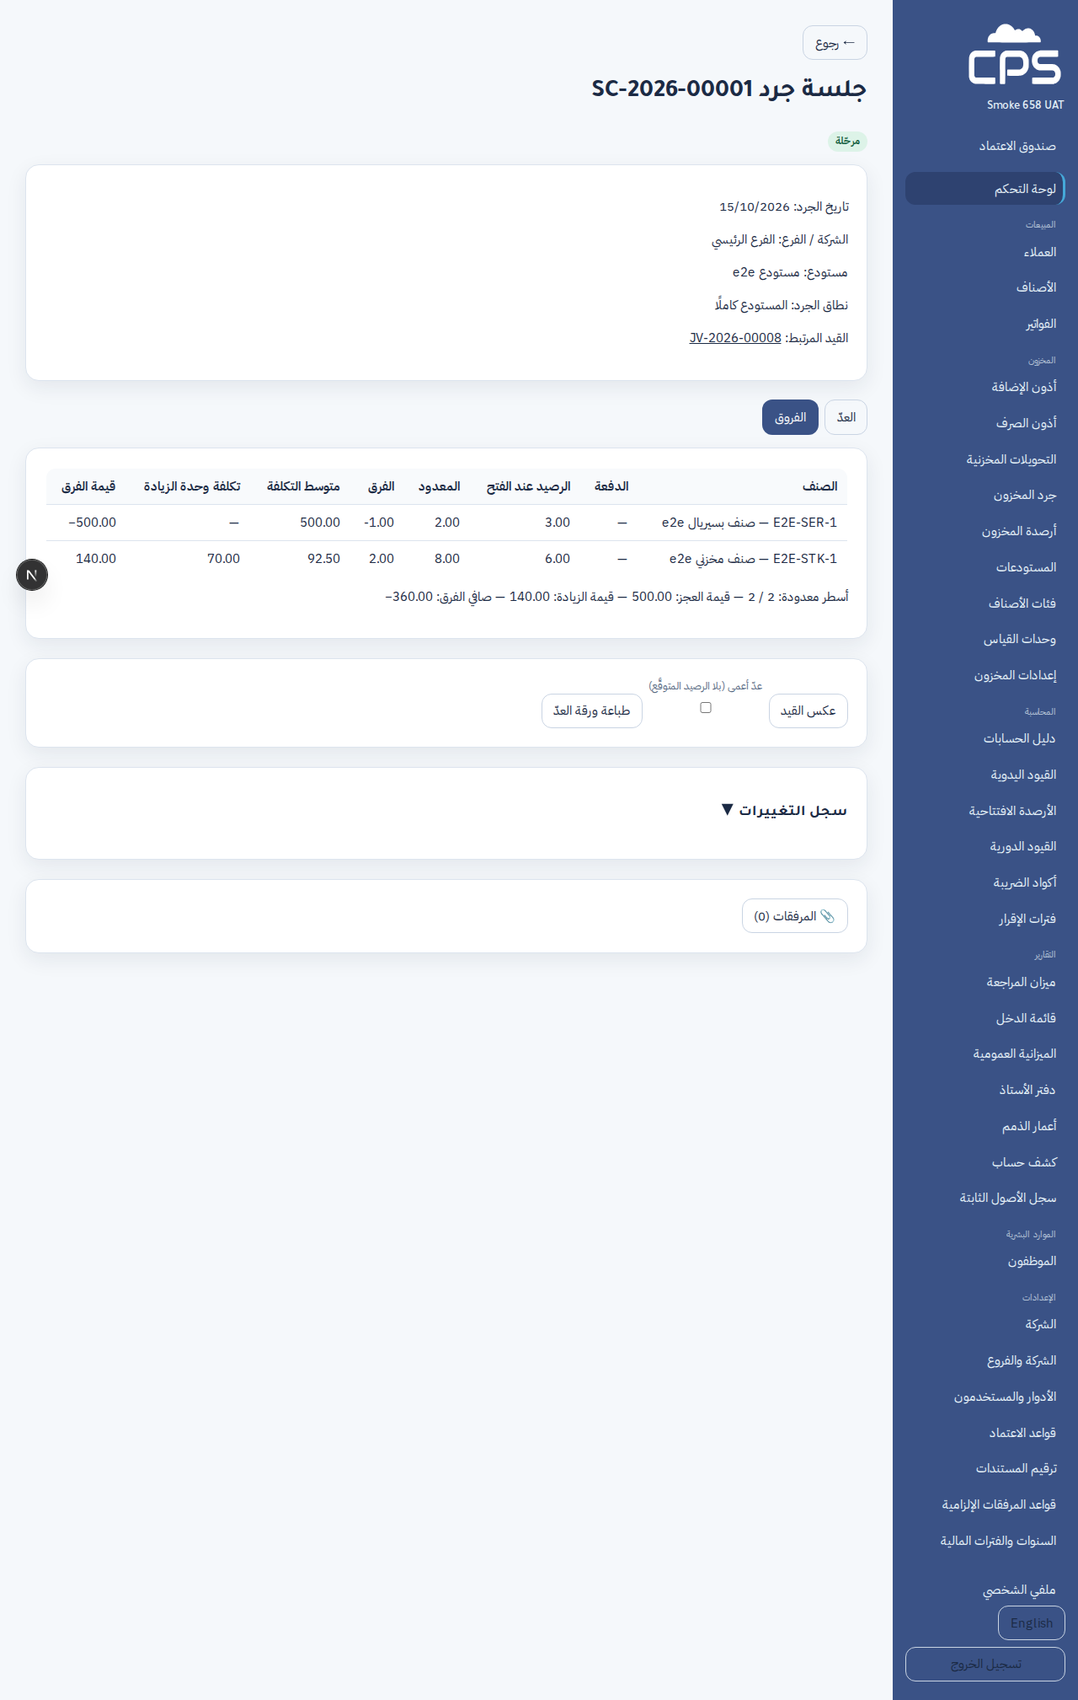
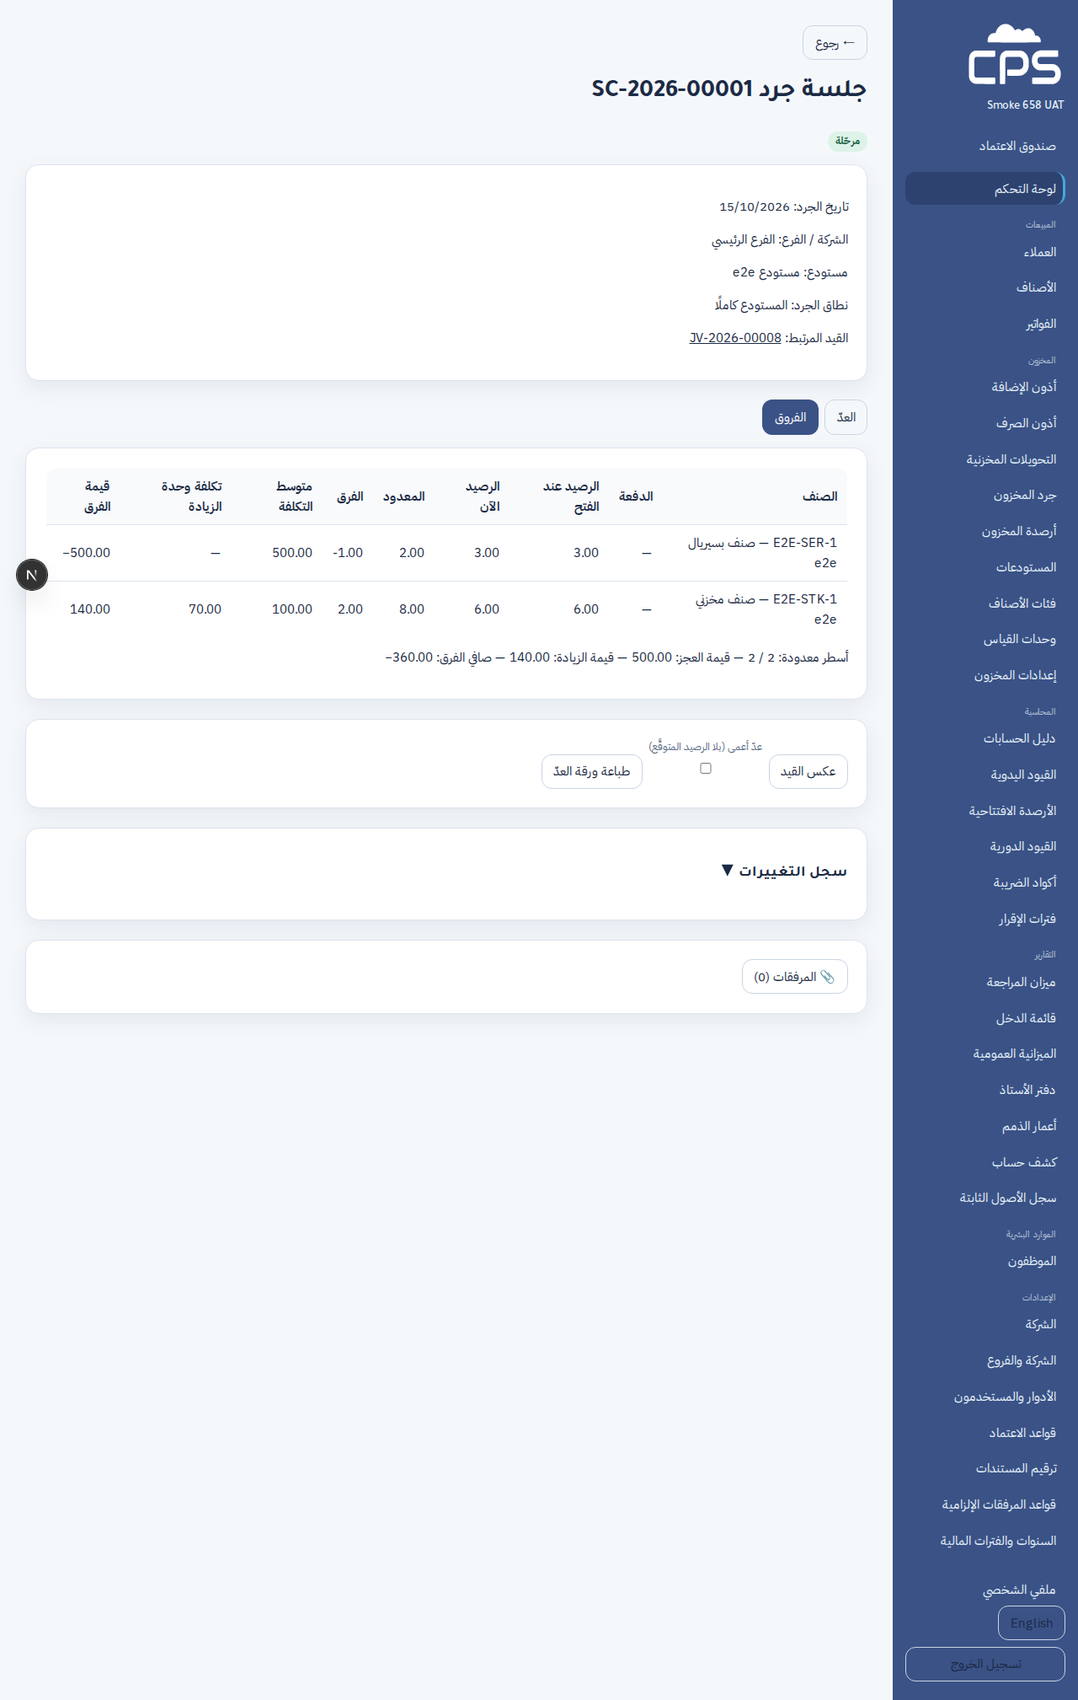
7.5 follow-up: messages name the «أذون الإضافة» screen, cell/header check on every variances state, rule 38
- Refusals that send the user to a receipt now name the sidebar screen
  («أذون الإضافة»), not «إذن استلام».
- expectCellsUnderTheirHeaders runs on draft (with «الرصيد الآن»), posted
  and reversed; it used to run only on posted, where the defect can't show.
  Old <td className="money"> cells fail it at draft with 14/18 cells off;
  before/after shots in docs/uat/screens/7.5f-variances-alignment/.
- 7-summary: corrected the known-edge text (the post-time message points at
  a cost edit that 409s on an approved session; no approved -> draft path).
- SYSTEM_ANALYSIS §4 rule 38: a screen is not done until walked in a browser.

diff --git a/frontend/e2e/12-stock-count.spec.ts b/frontend/e2e/12-stock-count.spec.ts
@@ -39,6 +39,29 @@ function field(page: Page, name: string) {
   return page.locator(`[data-field="${name}"]`).locator("input, select, textarea").first();
 }
 
+/** Layout, not just text: every cell of the variances table sits under its
+ * own column header. A display:inline-block <td> once pushed figures under
+ * the wrong headings while the DOM order — and every text assertion —
+ * stayed right. Run on each state the tab has: a draft (with «الرصيد الآن»,
+ * where it was seen), posted, and reversed (without it). */
+async function expectCellsUnderTheirHeaders(page: Page) {
+  const misaligned = await page.getByTestId("count-variances").evaluate((card) => {
+    const heads = [...card.querySelectorAll("thead th")].map((th) => ({ text: th.textContent, box: th.getBoundingClientRect() }));
+    const bad: string[] = [];
+    card.querySelectorAll("tbody tr").forEach((tr, r) => {
+      [...tr.children].forEach((td, i) => {
+        const b = td.getBoundingClientRect();
+        const h = heads[i];
+        if (!h || Math.abs(b.left - h.box.left) > 1 || Math.abs(b.right - h.box.right) > 1) {
+          bad.push(`row ${r} cell ${i} «${td.textContent?.trim()}» not under «${h?.text ?? "—"}»`);
+        }
+      });
+    });
+    return bad;
+  });
+  expect(misaligned).toEqual([]);
+}
+
 /** The app's own API, from inside the page — same origin, same token
  * (refreshed once on a 401, the way lib/api.ts does it). */
 async function api(page: Page, method: string, apiPath: string, body?: unknown) {
@@ -155,7 +178,7 @@ test("7.5: count session — shortage + surplus at an entered cost, approved, po
   const refused = page.waitForResponse((r) => r.url().includes("/find-item/"));
   await page.getByRole("button", { name: "حاول الإضافة" }).click();
   expect((await refused).status()).toBe(400);
-  await expect(page.getByText(/E2E-SN-404.*غير مسجَّل في هذا المستودع — استلمه بإذن استلام ثم أعد العدّ/)).toBeVisible();
+  await expect(page.getByText(/E2E-SN-404.*غير مسجَّل في هذا المستودع — أدخله بإذن إضافة من «أذون الإضافة» ثم أعد العدّ/)).toBeVisible();
   // ... and an item already on the sheet is pointed to, not added.
   await field(page, "find_item").fill("E2E-STK-1");
   const pointed = page.waitForResponse((r) => r.url().includes("/find-item/"));
@@ -186,6 +209,7 @@ test("7.5: count session — shortage + surplus at an entered cost, approved, po
   await page.getByRole("heading", { name: /سجل التغييرات/ }).click();
   await expect(page.getByText(/E2E-STK-1 — .*: بالمتوسط → 70\.00/)).toBeVisible();
   await page.screenshot({ path: `${SHOTS}/7.5f-variances-surplus-cost.png`, fullPage: true });
+  await expectCellsUnderTheirHeaders(page);
 
   // The printed count sheet: the entered cost is printed, and the sheet ends
   // with the empty «أصناف وُجدت وليست في الورقة» section to write in.
@@ -218,22 +242,7 @@ test("7.5: count session — shortage + surplus at an entered cost, approved, po
   expect((await posted).status()).toBe(200);
   await expect(page.getByText("مرحّلة").first()).toBeVisible();
   await expect(page.getByTestId("count-variances").locator("tr", { hasText: "E2E-STK-1" })).toContainText("140.00");
-  // Layout, not just text: every cell of the row sits under its own column
-  // header (a display:inline-block <td> once pushed figures under the wrong
-  // headings while the DOM order — and every text assertion — stayed right).
-  const misaligned = await page.getByTestId("count-variances").evaluate((card) => {
-    const heads = [...card.querySelectorAll("thead th")].map((th) => th.getBoundingClientRect());
-    const bad: string[] = [];
-    card.querySelectorAll("tbody tr").forEach((tr, r) => {
-      [...tr.children].forEach((td, i) => {
-        const b = td.getBoundingClientRect();
-        const h = heads[i];
-        if (!h || Math.abs(b.left - h.left) > 1 || Math.abs(b.right - h.right) > 1) bad.push(`row ${r} cell ${i}`);
-      });
-    });
-    return bad;
-  });
-  expect(misaligned).toEqual([]);
+  await expectCellsUnderTheirHeaders(page);
   await page.screenshot({ path: `${SHOTS}/7.5f-count-posted.png`, fullPage: true });
 
   // The numbers, over HTTP.
@@ -271,6 +280,7 @@ test("7.5: reversing the count on the screen", async ({ page }) => {
   await expect(page.getByTestId("count-variances").locator("tr", { hasText: "E2E-STK-1" })).toContainText("140.00");
   await expect(page.getByTestId("count-variances").locator("tr", { hasText: "E2E-SER-1" })).toContainText("−500.00");
   await page.screenshot({ path: `${SHOTS}/7.5f-count-reversed.png`, fullPage: true });
+  await expectCellsUnderTheirHeaders(page);
 
   const tb = await trialBalance(page);
   console.log(`PHASE12 after reverse: 1400=${JSON.stringify(tb.byCode["1400"])} 5070=${JSON.stringify(tb.byCode["5070"])} total Dr=${tb.totalDebit} Cr=${tb.totalCredit}`);

diff --git a/frontend/src/lib/i18n.tsx b/frontend/src/lib/i18n.tsx
@@ -532,7 +532,7 @@ const dictionaries: Record<Locale, Record<string, string>> = {
     stockSurplusAtAverage: "بالمتوسط",
     stockSaveSurplusCosts: "حفظ تكاليف الزيادة",
     stockSurplusCostsSaved: "حُفظت تكاليف الزيادة.",
-    stockSurplusNeedsCost: "متوسطه صفر — أدخل التكلفة أو حوّل الزيادة إلى إذن استلام",
+    stockSurplusNeedsCost: "متوسطه صفر — أدخل التكلفة أو أدخل الزيادة بإذن إضافة من «أذون الإضافة»",
     stockSurplusCostChange: "تكلفة وحدة الزيادة",
     stockFindItem: "صنف وُجد وليس في الورقة",
     stockFindItemHint: "رمز الصنف أو الباركود أو السيريال — الجلسة لا تقبل أسطرًا يدوية.",
@@ -1478,7 +1478,7 @@ const dictionaries: Record<Locale, Record<string, string>> = {
     stockSurplusAtAverage: "at average",
     stockSaveSurplusCosts: "Save surplus costs",
     stockSurplusCostsSaved: "Surplus costs saved.",
-    stockSurplusNeedsCost: "Average is zero — enter the cost or post the surplus on a receipt",
+    stockSurplusNeedsCost: "Average is zero — enter the cost or post the surplus on a receipt from “Stock receipts”",
     stockSurplusCostChange: "Surplus unit cost",
     stockFindItem: "Item found but not on the sheet",
     stockFindItemHint: "Item code, barcode or serial — a session takes no manual lines.",

diff --git a/backend/apps/inventory/services.py b/backend/apps/inventory/services.py
@@ -393,7 +393,7 @@ def zero_cost_surplus_message(items):
     names = "، ".join(f"«{item.name}» ({item.sku}) بزيادة {_fmt_qty(qty)}" for item, qty in items)
     return (
         f"لا تُثبت زيادة جرد بقيمة صفر: الصنف {names} متوسط تكلفته في الشركة صفر. "
-        "أدخل تكلفة وحدة الزيادة في تبويب الفروق، أو حوّل الزيادة إلى إذن استلام."
+        "أدخل تكلفة وحدة الزيادة في تبويب الفروق، أو أدخل الزيادة بإذن إضافة من «أذون الإضافة»."
     )
 
 
@@ -1365,7 +1365,7 @@ class CountEntryErrors(Exception):
 
 # What a counter is told about anything found on the shelf that the
 # session can't take: it goes in on a receipt first, then gets counted.
-NOT_IN_WAREHOUSE = "غير مسجَّل في هذا المستودع — استلمه بإذن استلام ثم أعد العدّ."
+NOT_IN_WAREHOUSE = "غير مسجَّل في هذا المستودع — أدخله بإذن إضافة من «أذون الإضافة» ثم أعد العدّ."
 
 
 def _category_ids_under(category):
@@ -1637,7 +1637,7 @@ def set_surplus_costs(document, user, entries, request=None):
 
 
 def find_count_item(document, query):
-    """«أضف صنفًا» on the count screen: a counter found something the sheet
+    """«صنف وُجد وليس في الورقة» on the count screen: a counter found something the sheet
     doesn't list. A session never takes manual lines — this only says
     where the thing goes: its existing line ({"line", "message"}), or a
     ValidationError naming exactly why it can't be counted here. `query`

diff --git a/backend/tests/test_sprint7_block5_followup.py b/backend/tests/test_sprint7_block5_followup.py
@@ -38,7 +38,7 @@ from .test_sprint7_block5 import (
 )
 
 D = Decimal
-NOT_IN_WAREHOUSE = "غير مسجَّل في هذا المستودع — استلمه بإذن استلام ثم أعد العدّ"
+NOT_IN_WAREHOUSE = "غير مسجَّل في هذا المستودع — أدخله بإذن إضافة من «أذون الإضافة» ثم أعد العدّ"
 
 
 @pytest.fixture
@@ -101,7 +101,7 @@ def test_number_2_a_zero_cost_surplus_is_refused_with_400_naming_the_item_and_mo
     assert response.status_code == 400, response.content
     detail = response.data["detail"]
     assert "«صنف بلا تكلفة»" in detail and "ZERO-1" in detail
-    assert "أدخل تكلفة وحدة الزيادة" in detail and "إذن استلام" in detail
+    assert "أدخل تكلفة وحدة الزيادة" in detail and "«أذون الإضافة»" in detail
     session.refresh_from_db()
     assert session.status == StockDocument.Status.APPROVED and not session.number
     assert not StockMove.objects.filter(document=session).exists()
@@ -190,7 +190,7 @@ def test_a_zero_cost_surplus_cannot_be_submitted_for_approval_either(world, clie
     response = client_a.post(f"{URL}{session.id}/submit/")
 
     assert response.status_code == 400
-    assert "«صنف بلا تكلفة»" in response.data["detail"] and "إذن استلام" in response.data["detail"]
+    assert "«صنف بلا تكلفة»" in response.data["detail"] and "«أذون الإضافة»" in response.data["detail"]
     session.refresh_from_db()
     assert session.status == StockDocument.Status.DRAFT
 

diff --git a/backend/apps/inventory/views.py b/backend/apps/inventory/views.py
@@ -574,7 +574,7 @@ class StockDocumentViewSet(
 
     @action(detail=True, methods=["post"], url_path="find-item")
     def find_item(self, request, pk=None):
-        """«أضف صنفًا»: {"q": serial / code / barcode / name}. Never adds a
+        """«صنف وُجد وليس في الورقة»: {"q": serial / code / barcode / name}. Never adds a
         line — 200 {line, message} when the session already has it, else
         400 with the reason it can't be counted here."""
         document = self._source_object()

diff --git a/backend/tests/test_sprint7_block5.py b/backend/tests/test_sprint7_block5.py
@@ -378,7 +378,7 @@ def test_a_serial_not_in_the_warehouse_cannot_be_counted(world):
 
     with pytest.raises(CountEntryErrors) as exc:
         _count(world, session, {item: ("1", ["IMEI-404"])})
-    assert "IMEI-404" in exc.value.errors[0]["reason"] and "إذن استلام" in exc.value.errors[0]["reason"]
+    assert "IMEI-404" in exc.value.errors[0]["reason"] and "«أذون الإضافة»" in exc.value.errors[0]["reason"]
 
 
 @pytest.mark.django_db

diff --git a/docs/sprints/7-summary.md b/docs/sprints/7-summary.md
@@ -479,7 +479,7 @@ fatma/acme/sprint15test منذ هجرة 0027)، التشخيص الدائم
   (`POST …/surplus-costs/`). يُحفظ على السطر، ويُطبع على ورقة العدّ، ويُسجَّل في التدقيق
   (`stock_document.surplus_cost_set` بقبل/بعد)، ويظهر في «سجل التغييرات» بصيغة «SKU — الصنف: بالمتوسط → 70.00».
 - **إلزامي إذا كان المتوسط صفرًا.** الترحيل يُرفض بـ400 برسالة تسمّي الصنف وتطلب التكلفة أو
-  التحويل إلى إذن استلام. ولا حركة ولا قيد. والإرسال للاعتماد يُرفض بالرسالة نفسها، حتى لا تُعتمد
+  إدخال الزيادة بإذن إضافة من «أذون الإضافة». ولا حركة ولا قيد. والإرسال للاعتماد يُرفض بالرسالة نفسها، حتى لا تُعتمد
   جلسة لا يمكن ترحيلها.
 - القيمة هي المصدر والمتوسط مشتق منها. +5 بتكلفة 90 على (10، 1000.00، 100.0000) تعطي
   (15، **1450.00**، 96.6667)، لا 15×96.6667. والثابت في e2e يجمع `value` لا الكمية×المتوسط.
@@ -488,7 +488,7 @@ fatma/acme/sprint15test منذ هجرة 0027)، التشخيص الدائم
 **الرفض يتكلّم:**
 - مربع «صنف وُجد وليس في الورقة» في شاشة العدّ (`POST …/find-item/`) لا يضيف سطرًا أبدًا. الصنف
   الموجود في الجلسة يدلّ على سطره. والصنف بلا صف رصيد في المستودع يُرفض باسمه: «… غير مسجَّل في هذا
-  المستودع — استلمه بإذن استلام ثم أعد العدّ». ويُرفض كذلك ما كان خارج نطاق الجلسة الجزئية، وغير المخزني، والملتبس.
+  المستودع — أدخله بإذن إضافة من «أذون الإضافة» ثم أعد العدّ». ويُرفض كذلك ما كان خارج نطاق الجلسة الجزئية، وغير المخزني، والملتبس.
 - السيريال غير الموجود في المستودع يُرفض بالرسالة نفسها مسمّى برقمه، في البحث وفي إدخال العدّ.
   وسيريال صنف آخر موجود في المستودع يُرفض بذكر الصنفين.
 - ورقة العدّ المطبوعة تنتهي بقسم فارغ «أصناف وُجدت وليست في الورقة» (#، الوصف، الكمية، الموقع).
@@ -496,8 +496,13 @@ fatma/acme/sprint15test منذ هجرة 0027)، التشخيص الدائم
 **قرارات:**
 - التكلفة تُعدَّل في **المسودة فقط**. بعد الإرسال تُرفض بـ409، لأن المعتمِد اعتمد مبلغًا محسوبًا بها.
   **حافة معروفة:** جلسة معتمدة يحوّل فيها تغيّرُ الرصيد سطرًا إلى زيادة بمتوسط صفر لا يمكن ترحيلها،
-  والرسالة تقول ذلك. الحل حذف الجلسة وفتح أخرى.
-- المصطلح «إذن استلام» كما في نص الطلب. التسمية في القائمة الجانبية ما زالت «أذون الإضافة»، ويحسن توحيدهما.
+  **تصحيح (2026-10-16):** الصياغة السابقة هنا قالت «والرسالة تقول ذلك. الحل حذف الجلسة وفتح أخرى»،
+  وكلا الشقين غير دقيق. الرسالة عند الترحيل هي رسالة المسودة نفسها، تطلب إدخال التكلفة في تبويب الفروق،
+  وهذا يُرفض بـ409 على جلسة معتمدة. وحذف الجلسة يُضيّع العدّ. مسار الاعتمادات يملك «رفض» و«سحب»
+  يعيدان المستند **مسودة** بأسطره (`approvals.services.reject`/`withdraw`)، لكن من «بانتظار الاعتماد»
+  فقط، ولا مسار من «معتمدة» إلى مسودة. الحافة مفتوحة بقرار المالك.
+- **المصطلح (تصحيح 2026-10-16):** الرسائل تنطق باسم الشاشة في القائمة الجانبية، «أذون الإضافة»
+  (المقابلة لـ«أذون الصرف»)، لا «إذن استلام» الذي ورد في نص الطلب.
 - **فجوة 7.5 أُغلقت:** شاشة «قواعد الاعتماد» وصندوق الاعتماد لم يعرفا `stock_count`. قاعدة الجرد
   المزروعة كانت بلا اسم، و«اعتماد» من الصندوق كان يذهب إلى `/undefined/`. أضيفت «جلسة جرد» ومسارها.
 
@@ -509,6 +514,11 @@ fatma/acme/sprint15test منذ هجرة 0027)، التشخيص الدائم
    والعيب نفسه في 12 خلية في شاشات المخزون وطباعتها، ونُقل الصنف إلى `<span>` داخلها. ترتيب DOM
    كان صحيحًا فلا تكشفه فحوص النص، فأضيف فحص هندسي: كل خلية تحت عنوان عمودها. أُعيد العيب في خلية
    واحدة ففشل الفحص `row 1 cell 5`، ثم أُعيد الإصلاح فنجح.
+   **تصحيح (2026-10-16):** ذلك الفحص كان يعمل على الجلسة المرحَّلة فقط، حيث لا عمود «الرصيد الآن»،
+   أي ليس على الحالة التي ظهر فيها العيب. صار دالة `expectCellsUnderTheirHeaders` تعمل على المسودة
+   (بالعمود) وعلى المرحَّلة وعلى المعكوسة. تشغيل e2e كامل بالخلايا القديمة في تبويب الفروق فشل عند
+   المسودة بـ14 خلية من 18، منها «row 0 cell 6 «500.00» not under «متوسط التكلفة»». وبالإصلاح مرّ e2e كاملًا («ALL CHECKS PASSED»).
+   اللقطتان: `docs/uat/screens/7.5f-variances-alignment/before.png` و`after.png`، خارج `6.5.8/` لأن `e2e.sh` يمسحه في كل تشغيل.
 3. فحص الشاشة بعد العكس لم يكن ينتظر تحميل الفروق، فصار يتحقق من الجدول قبل الصورة.
 
 **ملاحظات للمحاسب (لم تُغيَّر):**
